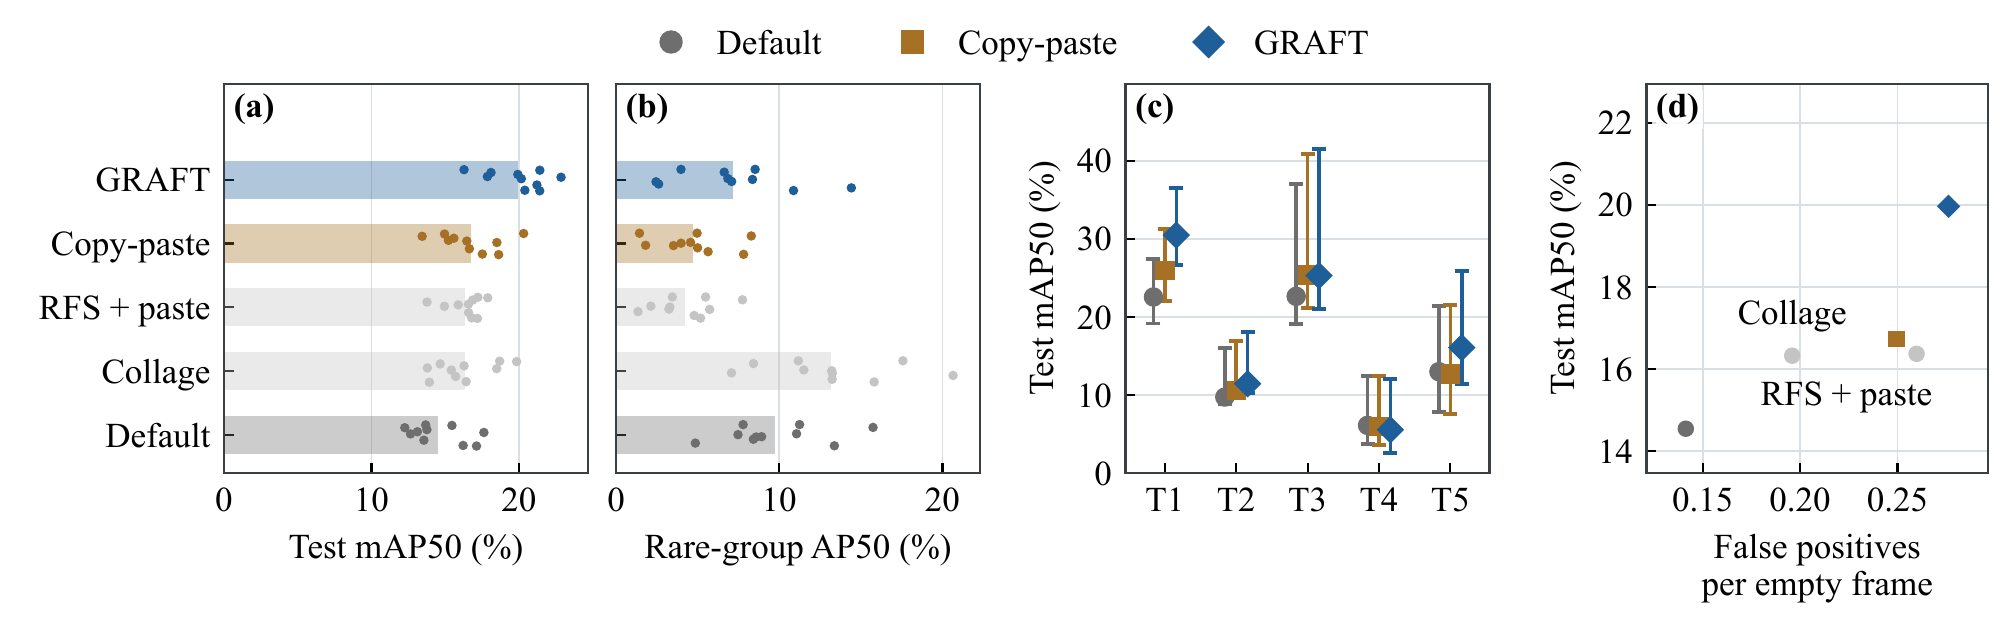
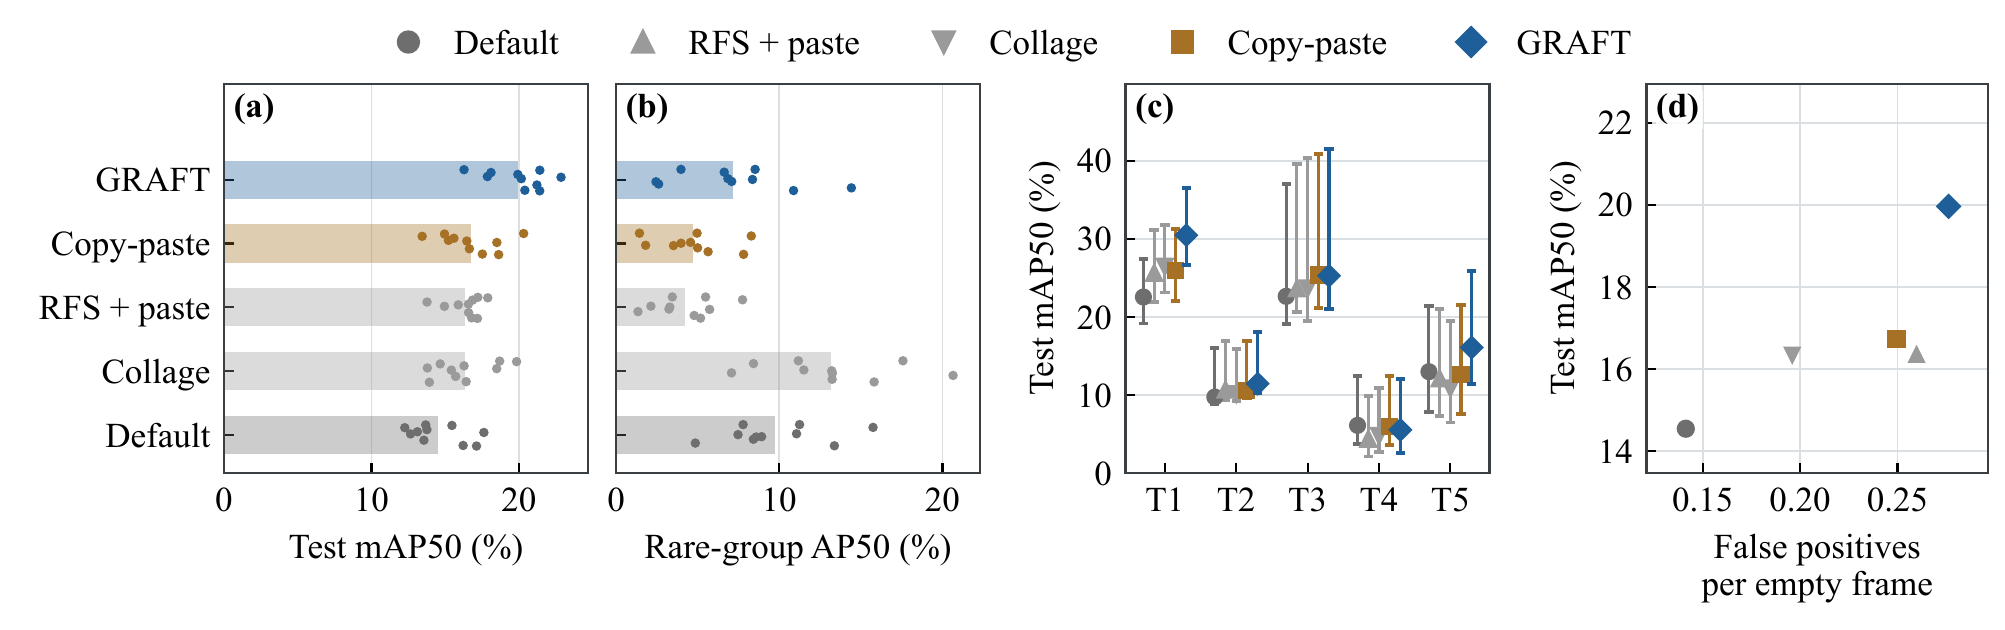
Data set release note, larger Fig. 4, all methods in Fig. 5(c), updated supplement

diff --git a/docs/index.html b/docs/index.html
@@ -75,7 +75,7 @@ footer{padding:30px 0 50px;color:var(--mut);font-size:.9rem;border-top:1px solid
 
 <section id="overview">
 <h2>Abstract</h2>
-<p>Seafloor video from remotely operated and human-occupied vehicles records benthic megafauna for deep-sea biodiversity surveys. Object detectors trained on some dives can lose much of their accuracy on new dives, sites, cameras, cruises, and vehicles. The rare taxa also provide few annotated animals. Image archives hold many close-ups of these taxa, although animals pasted from them keep the lighting of their source frames. We introduce Generalized Radiometry-Aware Fauna Transplantation, which inserts real archive animals into cruise training frames with the lighting of the seafloor at their new position. The method cuts archive animals with Segment Anything 2.1 and draws them by the scarcity of their taxon. Each pasted animal is then mapped to the intensity range of the seafloor around it. The detector keeps the size and speed of YOLO26n. Five test sets from three cruises add a new dive, site, camera, cruise, or vehicle. Over ten seeds, the pooled mean average precision at an intersection over union of 0.5 rose from 14.5% with the default augmentation to 20.0%, versus 16.7% for plain copy-paste. With a quarter of the cruise training frames, the method reached 17.8%, above the default augmentation with all frames. It raised the score of four other one-stage detectors by 4.0 to 6.0 points. On the lowest-contrast quarter of the test frames, it reached 25.9%, compared with at most 19.1% for the other augmentations. Relit archive animals can thus extend the training data of compact detectors for deep-sea surveys across cruises.</p>
+<p>Seafloor video from remotely operated and human-occupied vehicles records benthic megafauna for deep-sea biodiversity surveys. Detectors trained on some dives can lose much of their accuracy on new dives, sites, cameras, cruises, and vehicles. The rare taxa also provide few annotated animals. Image archives hold many close-ups of these taxa, but pasted animals keep the lighting of their source frames. We introduce Generalized Radiometry-Aware Fauna Transplantation, which inserts real archive animals into cruise training frames with the lighting of the seafloor at their new position. The method cuts archive animals with Segment Anything 2.1 and draws them by the scarcity of their taxon. Each pasted animal is mapped to the intensity range of the seafloor around it. The detector keeps the size and speed of YOLO26n. We also present a data set of 3689 annotated frames from three cruises, to be released, whose five test sets add a new dive, site, camera, cruise, or vehicle. Over ten seeds, the pooled mean average precision at an intersection over union of 0.5 rose from 14.5% with the default augmentation to 20.0%, versus 16.7% for plain copy-paste. With a quarter of the cruise training frames, the method reached 17.8%, above the default augmentation with all frames. It also raised four other one-stage detectors by 4.0 to 6.0 points. On the lowest-contrast quarter of the test frames, it reached 25.9%, against at most 19.1% for the others. Relit archive animals can thus extend the training data of compact detectors for deep-sea surveys across cruises.</p>
 <div class="grid">
 <div class="stat"><b>20.0%</b><span>pooled test mAP50 of YOLO26n with GRAFT over 10 seeds, against 14.5% with the default augmentation and 16.7% with plain copy-paste</span></div>
 <div class="stat"><b>17.8%</b><span>with 25% of the cruise training frames, above the 14.4% of the default augmentation with all frames over the same five seeds</span></div>
@@ -160,7 +160,7 @@ footer{padding:30px 0 50px;color:var(--mut);font-size:.9rem;border-top:1px solid
 <tr><td>T5</td><td class="l">Cruise C, pan-tilt and manipulator cameras</td><td class="l">vehicle, cruise</td><td>403</td></tr>
 </tbody></table></div>
 <p><b>Archive set.</b> Close-up frames from the JAMSTEC E-library of Deep-sea Images (<a href="https://www.godac.jamstec.go.jp/jedi/">J-EDI</a>), whose classes are mapped onto the same taxa (supplementary material, Section S1). The use of J-EDI images is subject to the J-EDI terms of use.</p>
-<p><b>Availability.</b> The cruise frames and their annotations are available from the corresponding authors on reasonable request. The repository holds the split lists (training dives, cross-validation folds, label-budget subsets, test sets T1&ndash;T5, imaging-condition subsets and the archive splits) as frame names, and the main and rare taxa of the evaluation.</p>
+<p><b>Availability.</b> The cruise frames and their annotations will be released on the project page. Until then they are available from the corresponding authors on reasonable request. The repository holds the split lists (training dives, cross-validation folds, label-budget subsets, test sets T1&ndash;T5, imaging-condition subsets and the archive splits) as frame names, and the main and rare taxa of the evaluation.</p>
 </section>
 
 <section id="limits">

diff --git a/README.md b/README.md
@@ -11,7 +11,7 @@ Code, data lists, results and model weights for the paper
 
 ## Abstract
 
-Seafloor video from remotely operated and human-occupied vehicles records benthic megafauna for deep-sea biodiversity surveys. Object detectors trained on some dives can lose much of their accuracy on new dives, sites, cameras, cruises, and vehicles. The rare taxa also provide few annotated animals. Image archives hold many close-ups of these taxa, although animals pasted from them keep the lighting of their source frames. We introduce Generalized Radiometry-Aware Fauna Transplantation, which inserts real archive animals into cruise training frames with the lighting of the seafloor at their new position. The method cuts archive animals with Segment Anything 2.1 and draws them by the scarcity of their taxon. Each pasted animal is then mapped to the intensity range of the seafloor around it. The detector keeps the size and speed of YOLO26n. Five test sets from three cruises add a new dive, site, camera, cruise, or vehicle. Over ten seeds, the pooled mean average precision at an intersection over union of 0.5 rose from 14.5% with the default augmentation to 20.0%, versus 16.7% for plain copy-paste. With a quarter of the cruise training frames, the method reached 17.8%, above the default augmentation with all frames. It raised the score of four other one-stage detectors by 4.0 to 6.0 points. On the lowest-contrast quarter of the test frames, it reached 25.9%, compared with at most 19.1% for the other augmentations. Relit archive animals can thus extend the training data of compact detectors for deep-sea surveys across cruises.
+Seafloor video from remotely operated and human-occupied vehicles records benthic megafauna for deep-sea biodiversity surveys. Detectors trained on some dives can lose much of their accuracy on new dives, sites, cameras, cruises, and vehicles. The rare taxa also provide few annotated animals. Image archives hold many close-ups of these taxa, but pasted animals keep the lighting of their source frames. We introduce Generalized Radiometry-Aware Fauna Transplantation, which inserts real archive animals into cruise training frames with the lighting of the seafloor at their new position. The method cuts archive animals with Segment Anything 2.1 and draws them by the scarcity of their taxon. Each pasted animal is mapped to the intensity range of the seafloor around it. The detector keeps the size and speed of YOLO26n. We also present a data set of 3689 annotated frames from three cruises, to be released, whose five test sets add a new dive, site, camera, cruise, or vehicle. Over ten seeds, the pooled mean average precision at an intersection over union of 0.5 rose from 14.5% with the default augmentation to 20.0%, versus 16.7% for plain copy-paste. With a quarter of the cruise training frames, the method reached 17.8%, above the default augmentation with all frames. It also raised four other one-stage detectors by 4.0 to 6.0 points. On the lowest-contrast quarter of the test frames, it reached 25.9%, against at most 19.1% for the others. Relit archive animals can thus extend the training data of compact detectors for deep-sea surveys across cruises.
 
 ![Fig. 1](docs/img/fig1_concept.png)
 
@@ -92,7 +92,7 @@ The per-seed scores behind these tables are in [`results/`](results): `test_boot
 
 **Archive set.** Close-up frames from the JAMSTEC E-library of Deep-sea Images (J-EDI, https://www.godac.jamstec.go.jp/jedi/), whose classes are mapped onto the same taxa (supplementary material, Section S1). The use of J-EDI images is subject to the J-EDI terms of use.
 
-**Availability.** The cruise frames and their annotations are available from the corresponding authors on reasonable request.
+**Availability.** The cruise frames and their annotations will be released on the project page. Until then they are available from the corresponding authors on reasonable request.
 
 This repository holds the split lists in [`data/lists`](data/lists), one frame name per line, and the main and rare taxa of the evaluation in [`data/eval_classes.json`](data/eval_classes.json). Cruise frames are named `<cruise>_<dive>_<camera>_<id>.jpg` and archive frames `S_<archive class>_<index>.jpg`.
 
